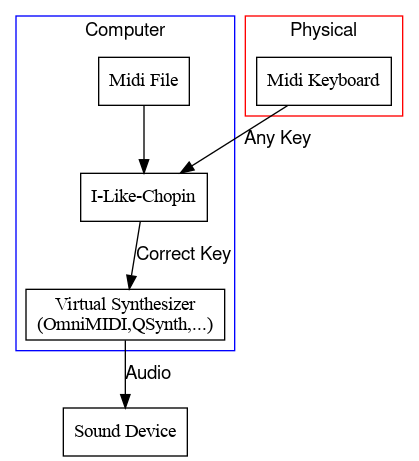
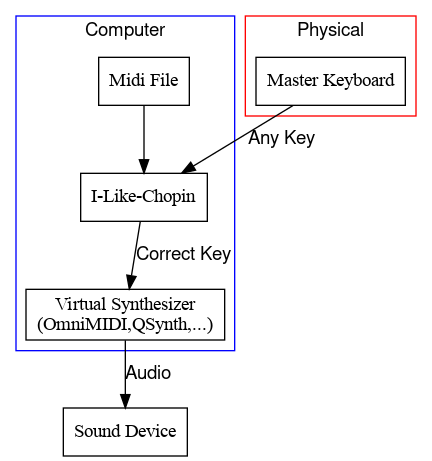
Updated

diff --git a/README.md b/README.md
@@ -6,7 +6,12 @@ Funny program for play like Chopin.
     <img src="media/20240717_192901.png"  width="600">
 </p>
 
-"I like Chopin" is a very special MIDI player for Linux or Windows that uses Python 3, the Mido MIDI library, and Qt6. Any random key pressed on a physical MIDI piano or keyboard plays the correct note from the MIDI file. When all keys are released, the MIDI player stops. You need a physical MIDI keyboard connected to the computer.
+"I like Chopin" is a very special MIDI player for Linux or Windows that uses Python 3, the Mido library and Qt6. Any random key pressed on a physical master keyboard plays the correct note from the MIDI file. When all keys are released, the MIDI player stops. You need a physical MIDI master keyboard connected to the computer and a virtual synthesizer.
+
+<p align="center">
+    <img src="media/ILC.png"  width="320">
+</p>
+
 
 Impress your friends with this musical magic trick!
 
@@ -18,6 +23,3 @@ Requirements:
 * PySide6_Addons==6.7.1
 * PySide6_Essentials==6.7.1
 
-<p align="center">
-    <img src="media/ILC.png"  width="280">
-</p>
